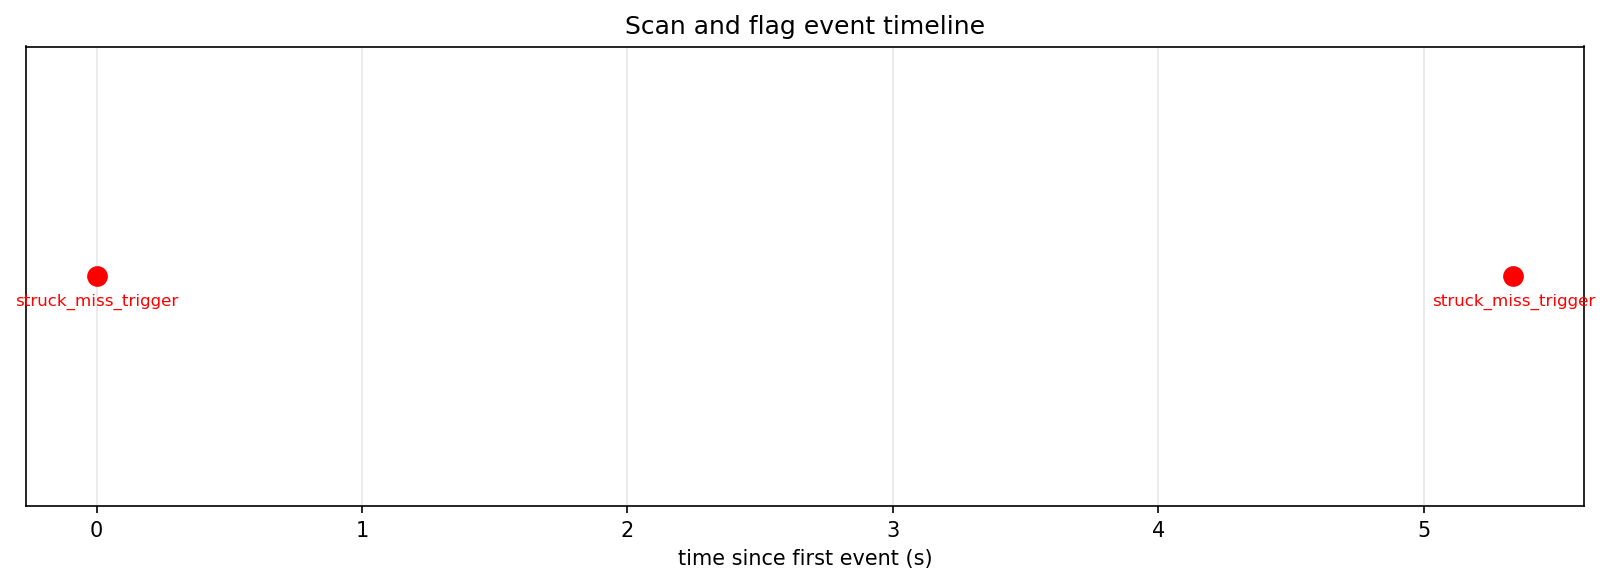
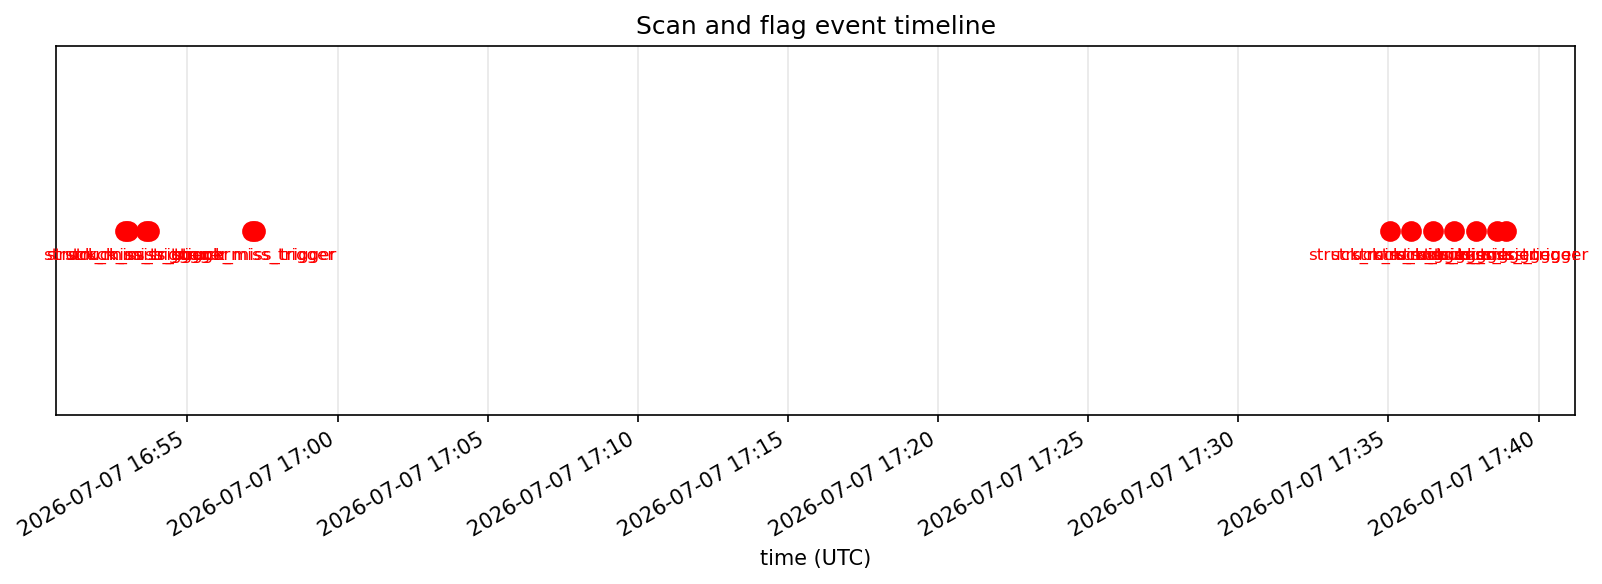
new error found, struck_miss_trigger still gives false positive flag.

diff --git a/scan_monitor/scan_monitor_flags.py b/scan_monitor/scan_monitor_flags.py
@@ -64,7 +64,7 @@ def struck_miss_trigger(ctx: SimpleNamespace) -> bool:
         and int(ctx.acquiring) == 1
         and int(ctx.current_channel) != int(ctx.nuse_all)
         and int(ctx.current_channel) > 0
-        and float(ctx.elapsed_time) + 8 > ctx.dwell_time * ctx.nuse_all / 1000
+        and (float(ctx.elapsed_time) + 8) > (ctx.dwell_time * ctx.nuse_all / 1000)
     )
 
 
